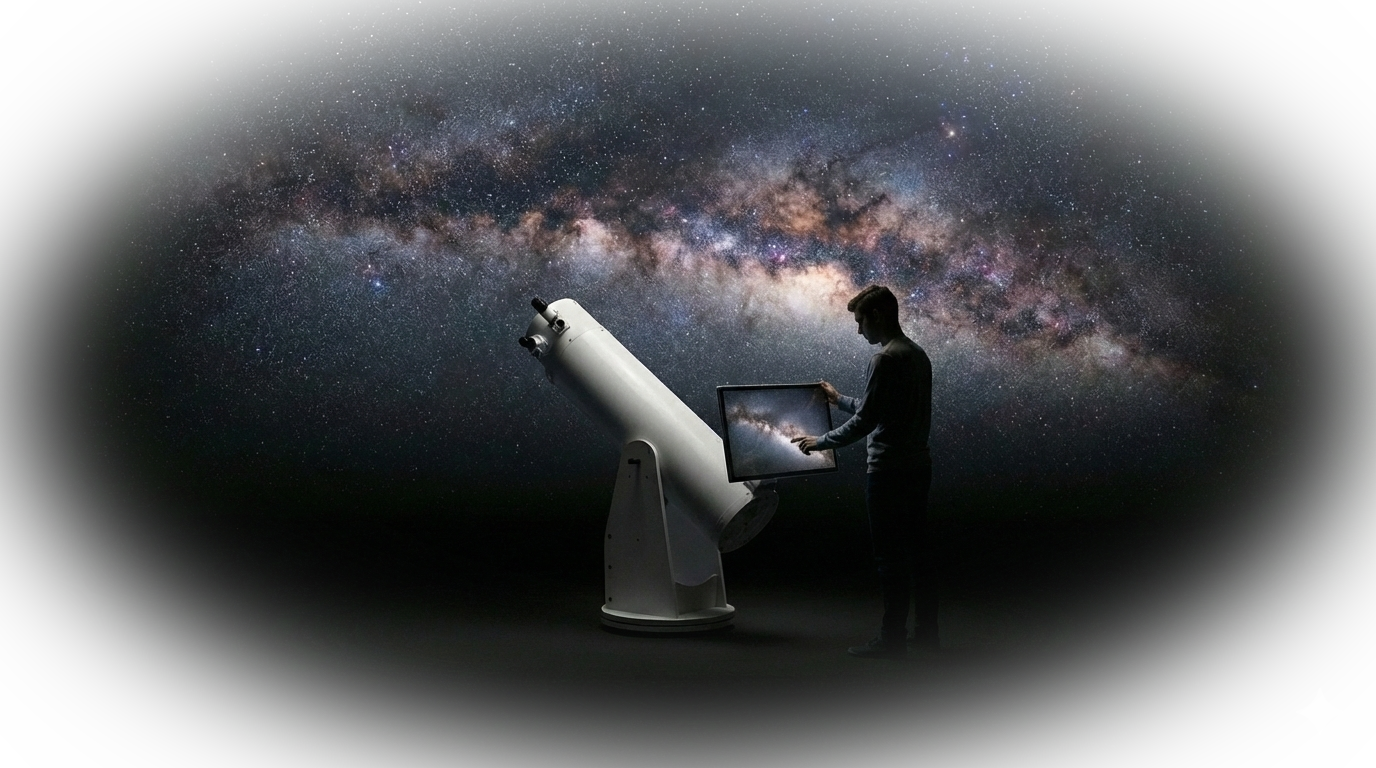
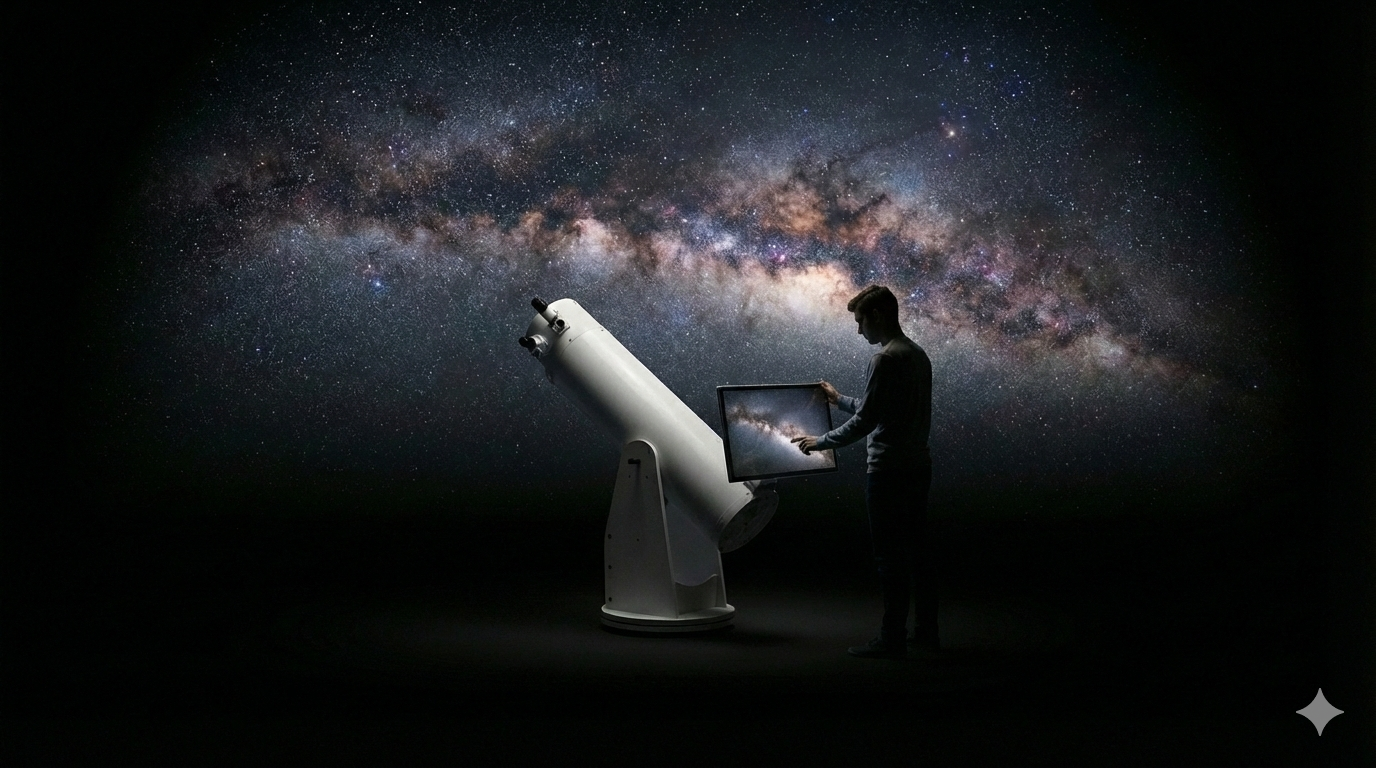
Add files via upload

diff --git a/index.html b/index.html
@@ -1,4 +1,3 @@
-
 <!DOCTYPE html>
 <html lang="es" class="scroll-smooth">
 <head>
@@ -73,21 +72,29 @@
         </div>
     </nav>
 
-    <!-- HERO SECTION -->
-    <section id="inicio" class="relative min-h-screen flex items-center justify-start overflow-hidden pt-20">
+<!-- HERO SECTION -->
+    <section id="inicio" class="relative min-h-screen flex items-center justify-start overflow-hidden pt-20 bg-space-900">
         
-        <!-- Background Image Container con efecto FADE -->
-        <div class="absolute inset-0 z-0">
-            <!-- PLACEHOLDER IMAGEN HERO (La que generaste) -->
-            <img src="hero.png" alt="Space Background" class="w-full h-full object-cover opacity-80">
+        <!-- 1. CONTENITORE IMMAGINE -->
+        <!-- CAMBIAMENTO: w-full md:w-3/4 (occupa il 75% dello schermo invece del 50%) -->
+        <!-- Questo la sposta verso sinistra, avvicinandola al testo -->
+        <div class="absolute inset-y-0 right-0 w-full md:w-3/4 z-0 h-full">
             
-            <!-- Mascaras para sfumare los bordes al negro -->
-            <div class="absolute inset-0 bg-gradient-to-r from-space-900 via-space-900/50 to-transparent w-full h-full"></div>
-            <div class="absolute inset-0 bg-gradient-to-t from-space-900 via-transparent to-space-900 w-full h-full"></div>
+            <!-- IMMAGINE -->
+            <!-- object-left: Assicura che si veda la parte sinistra della foto (il telescopio) e non solo il vuoto -->
+            <img src="hero.png" alt="Space Background" class="w-full h-full object-cover object-left opacity-100">
+            
+            <!-- 2. SFUMATURA LATERALE (Maschera) -->
+            <!-- Questa sfumatura fa sparire l'immagine dolcemente verso sinistra -->
+            <div class="absolute inset-0 bg-gradient-to-r from-space-900 via-space-900/10 to-transparent w-full h-full"></div>
+            
+            <!-- Sfumatura inferiore (per sicurezza su mobile) -->
+            <div class="absolute inset-0 bg-gradient-to-t from-space-900 via-transparent to-transparent w-full h-full"></div>
         </div>
 
+        <!-- CONTENUTO TESTUALE -->
         <div class="relative z-10 max-w-7xl mx-auto px-4 sm:px-6 lg:px-8 w-full">
-            <div class="md:w-2/3 lg:w-1/2">
+            <div class="md:w-1/2"> <!-- Il testo occupa la metà sinistra -->
                 <h1 class="text-5xl md:text-7xl font-extrabold tracking-tight mb-6 leading-tight">
                     El Universo <br>
                     <span class="text-transparent bg-clip-text bg-gradient-to-r from-neon-cyan to-purple-500">en tus manos.</span>
